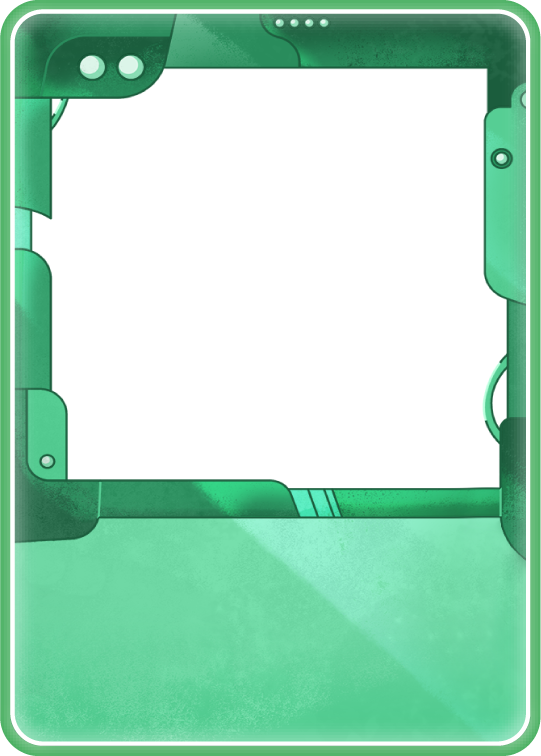
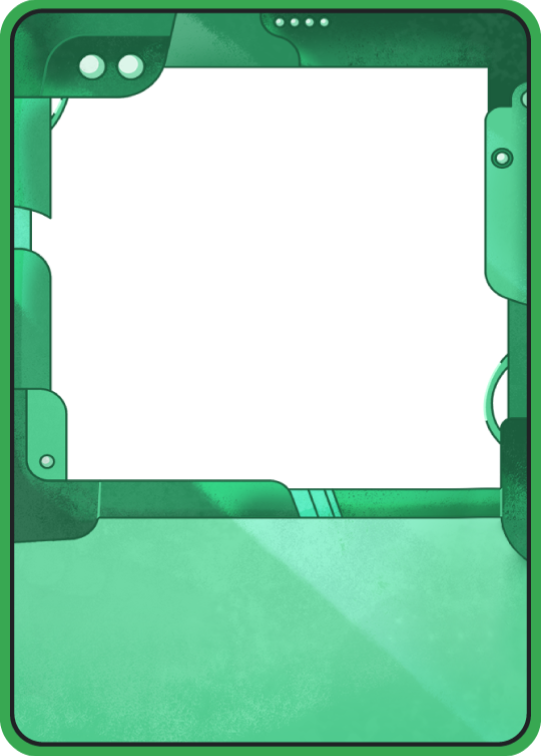
feat: add holos frames

diff --git a/packages/io_flip_ui/test/src/widgets/game_card_test.dart b/packages/io_flip_ui/test/src/widgets/game_card_test.dart
@@ -57,6 +57,53 @@ void main() {
       });
     }
 
+    for (final suitName in ['fire', 'air', 'earth', 'water', 'metal']) {
+      group('when is a $suitName rare card', () {
+        testWidgets('renders holo correctly', (tester) async {
+          await tester.pumpWidget(
+            mockNetworkImages(
+              () => Directionality(
+                textDirection: TextDirection.ltr,
+                child: GameCard(
+                  package: null,
+                  image: 'image',
+                  name: 'name',
+                  description: 'description',
+                  suitName: suitName,
+                  power: 1,
+                  isRare: true,
+                ),
+              ),
+            ),
+          );
+
+          expect(
+            find.text('name'),
+            findsOneWidget,
+          );
+
+          expect(
+            find.byWidgetPredicate(
+              (widget) {
+                if (widget is Image && widget.image is AssetImage) {
+                  final assetImage = widget.image as AssetImage;
+                  return assetImage.assetName ==
+                      'packages/io_flip_ui/assets/images/card_frames/holos/card_$suitName.png';
+                }
+                return false;
+              },
+            ),
+            findsOneWidget,
+          );
+
+          expect(
+            find.text('1'),
+            findsNWidgets(2), // Two texts are stacked to draw the border.
+          );
+        });
+      });
+    }
+
     testWidgets(
       'renders IO flip game as a placeholder when loading fails',
       (tester) async {
@@ -132,7 +179,7 @@ void main() {
               image: 'image',
               name: 'name',
               description: 'description',
-              suitName: 'air',
+              suitName: 'earth',
               power: 1,
               isRare: true,
             ),

diff --git a/packages/io_flip_ui/lib/src/widgets/game_card.dart b/packages/io_flip_ui/lib/src/widgets/game_card.dart
@@ -255,26 +255,56 @@ class GameCard extends StatelessWidget {
   (String, SvgPicture) _mapSuitNameToAssets() {
     switch (suitName) {
       case 'fire':
+        if (isRare) {
+          return (
+            Assets.images.cardFrames.holos.cardFire.keyName,
+            Assets.images.suits.card.fire.svg(),
+          );
+        }
         return (
           Assets.images.cardFrames.cardFire.keyName,
           Assets.images.suits.card.fire.svg(),
         );
       case 'water':
+        if (isRare) {
+          return (
+            Assets.images.cardFrames.holos.cardWater.keyName,
+            Assets.images.suits.card.water.svg(),
+          );
+        }
         return (
           Assets.images.cardFrames.cardWater.keyName,
           Assets.images.suits.card.water.svg(),
         );
       case 'earth':
+        if (isRare) {
+          return (
+            Assets.images.cardFrames.holos.cardEarth.keyName,
+            Assets.images.suits.card.earth.svg(),
+          );
+        }
         return (
           Assets.images.cardFrames.cardEarth.keyName,
           Assets.images.suits.card.earth.svg(),
         );
       case 'air':
+        if (isRare) {
+          return (
+            Assets.images.cardFrames.holos.cardAir.keyName,
+            Assets.images.suits.card.air.svg(),
+          );
+        }
         return (
           Assets.images.cardFrames.cardAir.keyName,
           Assets.images.suits.card.air.svg(),
         );
       case 'metal':
+        if (isRare) {
+          return (
+            Assets.images.cardFrames.holos.cardMetal.keyName,
+            Assets.images.suits.card.metal.svg(),
+          );
+        }
         return (
           Assets.images.cardFrames.cardMetal.keyName,
           Assets.images.suits.card.metal.svg(),

diff --git a/packages/io_flip_ui/lib/gen/assets.gen.dart b/packages/io_flip_ui/lib/gen/assets.gen.dart
@@ -73,6 +73,9 @@ class $AssetsImagesCardFramesGen {
   AssetGenImage get cardWater =>
       const AssetGenImage('assets/images/card_frames/card_water.png');
 
+  $AssetsImagesCardFramesHolosGen get holos =>
+      const $AssetsImagesCardFramesHolosGen();
+
   /// List of all assets
   List<AssetGenImage> get values =>
       [cardAir, cardBack, cardEarth, cardFire, cardMetal, cardWater];
@@ -93,6 +96,34 @@ class $AssetsImagesSuitsGen {
   $AssetsImagesSuitsCardGen get card => const $AssetsImagesSuitsCardGen();
   $AssetsImagesSuitsOnboardingGen get onboarding =>
       const $AssetsImagesSuitsOnboardingGen();
+}
+
+class $AssetsImagesCardFramesHolosGen {
+  const $AssetsImagesCardFramesHolosGen();
+
+  /// File path: assets/images/card_frames/holos/card_air.png
+  AssetGenImage get cardAir =>
+      const AssetGenImage('assets/images/card_frames/holos/card_air.png');
+
+  /// File path: assets/images/card_frames/holos/card_earth.png
+  AssetGenImage get cardEarth =>
+      const AssetGenImage('assets/images/card_frames/holos/card_earth.png');
+
+  /// File path: assets/images/card_frames/holos/card_fire.png
+  AssetGenImage get cardFire =>
+      const AssetGenImage('assets/images/card_frames/holos/card_fire.png');
+
+  /// File path: assets/images/card_frames/holos/card_metal.png
+  AssetGenImage get cardMetal =>
+      const AssetGenImage('assets/images/card_frames/holos/card_metal.png');
+
+  /// File path: assets/images/card_frames/holos/card_water.png
+  AssetGenImage get cardWater =>
+      const AssetGenImage('assets/images/card_frames/holos/card_water.png');
+
+  /// List of all assets
+  List<AssetGenImage> get values =>
+      [cardAir, cardEarth, cardFire, cardMetal, cardWater];
 }
 
 class $AssetsImagesElementsDesktopGen {
